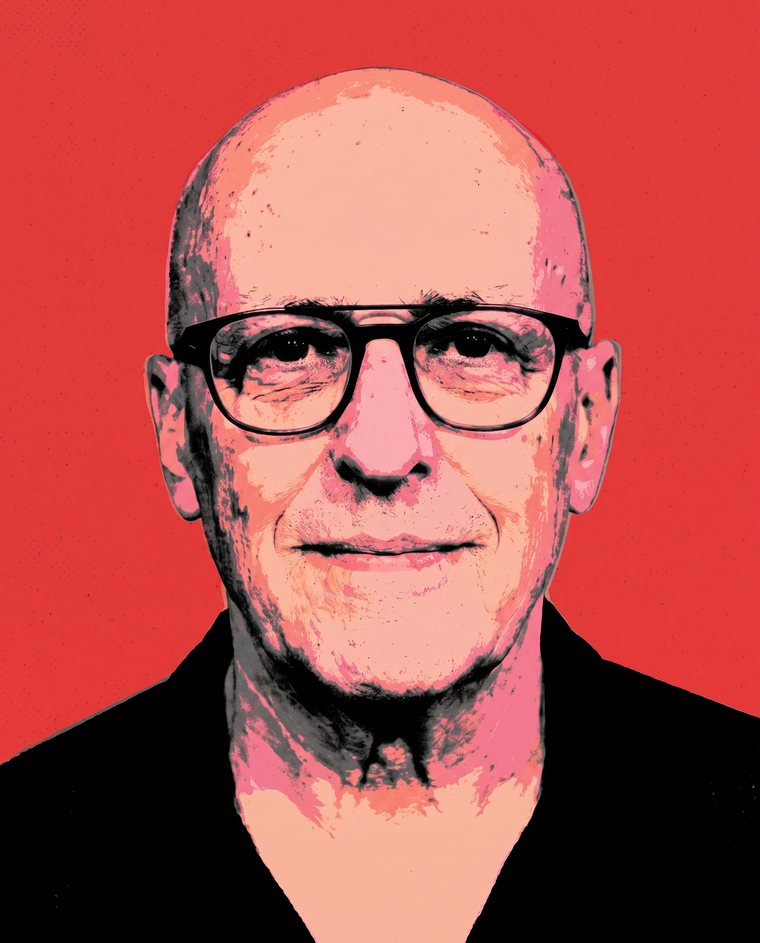
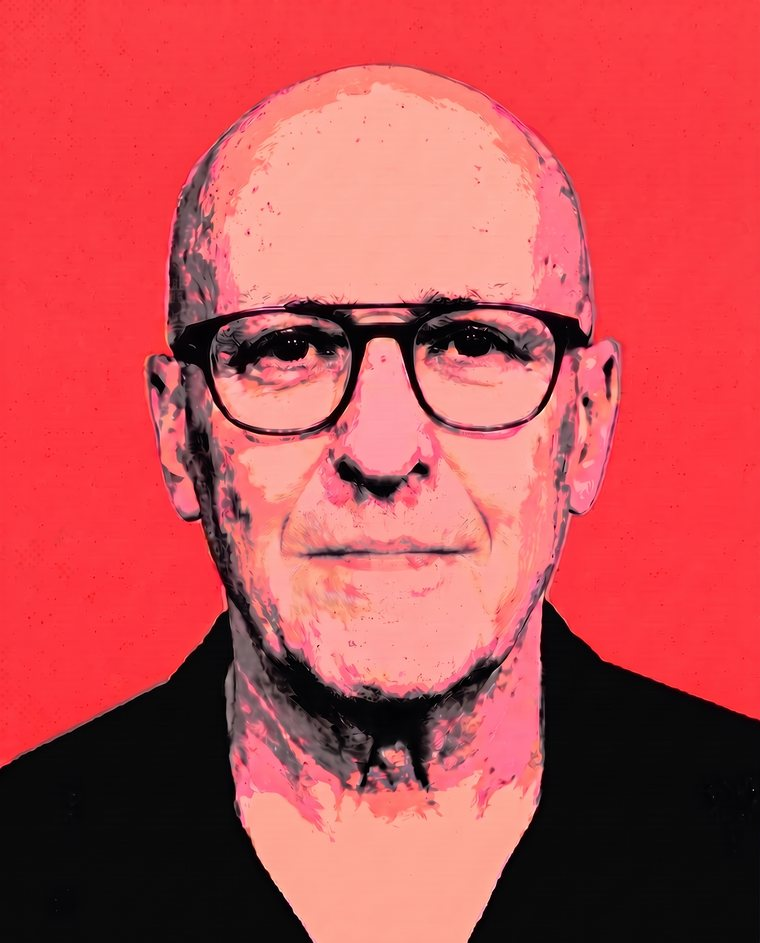
Update Frans member illustration; bump cache to v=6
Claude-Session: https://claude.ai/code/session_014cfcL6YQYRThTVkfsxPfKv

diff --git a/website/index.html b/website/index.html
@@ -723,7 +723,7 @@ function renderMembers(){
   MEMBERS.forEach(function(m,i){
     var d=document.createElement('div'); d.className='member reveal'; d.style.transitionDelay=(i%3*0.08)+'s';
     d.innerHTML='<div class="member-pic">'+
-      '<img src="assets/members/'+m[3]+'.jpg?v=5" alt="'+m[0]+' — '+(lang?m[2]:m[1])+'" loading="lazy" /></div>'+
+      '<img src="assets/members/'+m[3]+'.jpg?v=6" alt="'+m[0]+' — '+(lang?m[2]:m[1])+'" loading="lazy" /></div>'+
       '<div class="member-body"><h3>'+m[0]+'</h3><div class="member-role f-comic">'+(lang?m[2]:m[1])+'</div></div>';
     g.appendChild(d);
   });